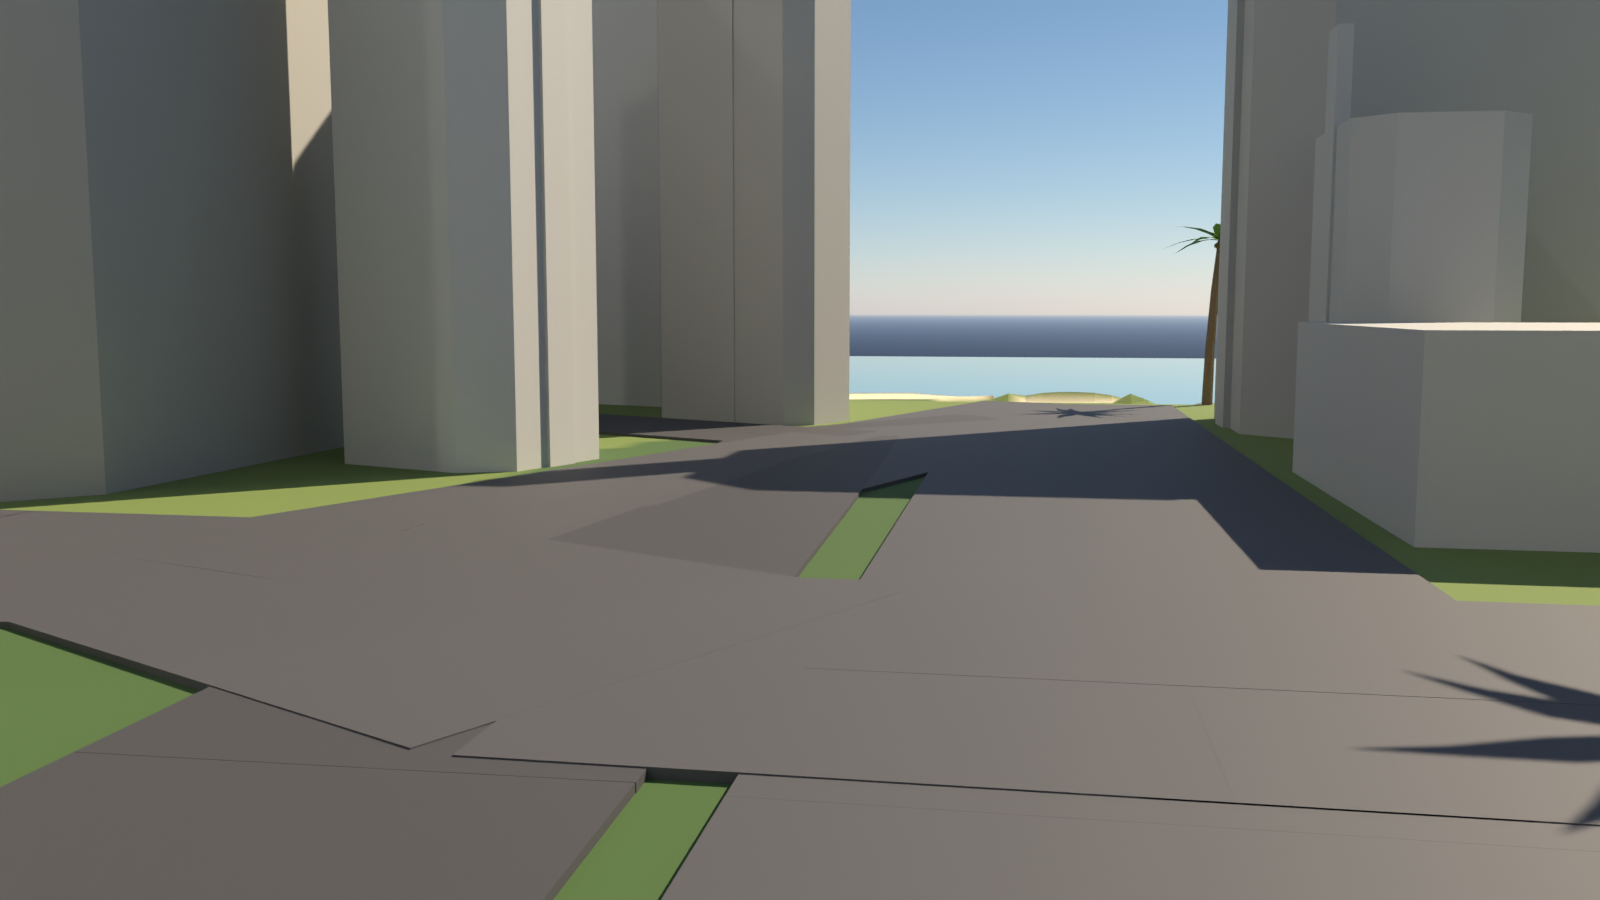
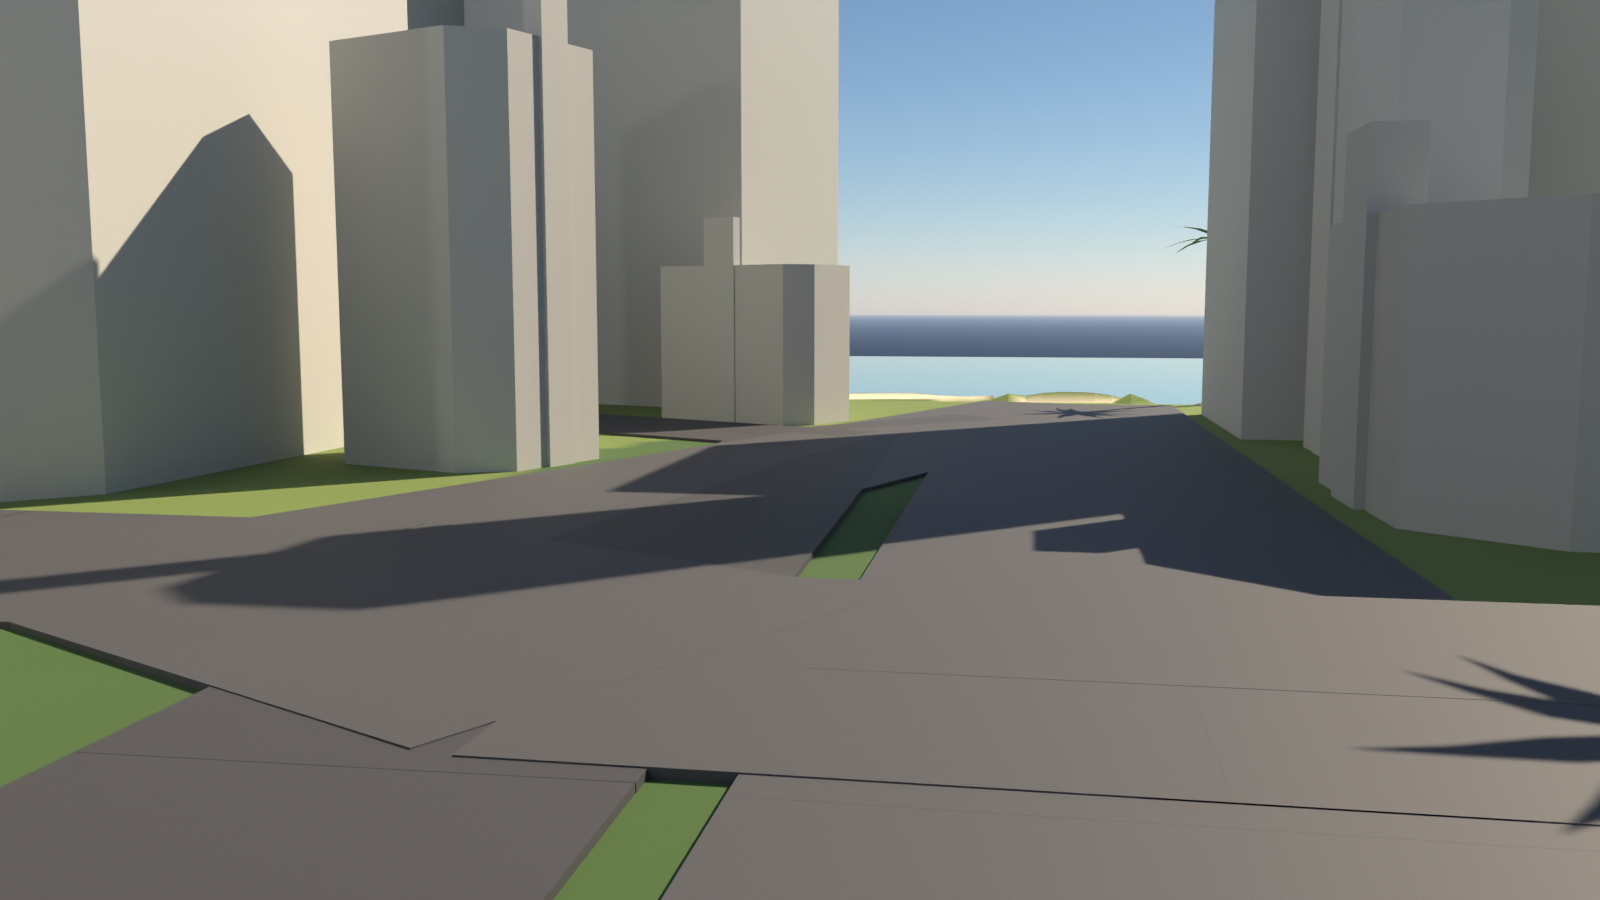
Lighting preset and day/night cycle, murky swamp water and beach foam, backyard canals, bigger downtown/docks/campus buildings
Claude-Session: https://claude.ai/code/session_01PWmpu53kThn7KFGp88wUgC

diff --git a/costa-verde/tools/blender/render_terrain.py b/costa-verde/tools/blender/render_terrain.py
@@ -22,6 +22,43 @@ def lin(c):  # sRGB 0-255 -> linear
     return tuple(((v / 255 + 0.055) / 1.055) ** 2.4 if v / 255 > 0.04045 else v / 255 / 12.92 for v in c)
 
 
+def greybox(pieces, name, alpha):
+    pv, pf, pcol = [], [], []
+    for pc in pieces:
+        p, r, u, b, sz = pc["p"], pc["r"], pc["u"], pc["b"], pc["s"]
+        def corner(i, j, k):
+            v = [p[n] + r[n] * sz[0] / 2 * i + u[n] * sz[1] / 2 * j + b[n] * sz[2] / 2 * k for n in range(3)]
+            return (v[0], -v[2], v[1])
+        n0 = len(pv)
+        if pc["shape"] == "box":
+            pv += [corner(i, j, k) for i in (-1, 1) for j in (-1, 1) for k in (-1, 1)]
+            faces = [(0, 1, 3, 2), (4, 6, 7, 5), (0, 4, 5, 1), (2, 3, 7, 6), (0, 2, 6, 4), (1, 5, 7, 3)]
+        else:  # wedge: bottom full, top edge at +Z
+            pv += [corner(-1, -1, -1), corner(1, -1, -1), corner(1, -1, 1), corner(-1, -1, 1), corner(-1, 1, 1), corner(1, 1, 1)]
+            faces = [(0, 1, 2, 3), (3, 2, 5, 4), (0, 3, 4), (1, 5, 2), (0, 4, 5, 1)]
+        for f in faces:
+            pf.append(tuple(n0 + q for q in f))
+            pcol.append(pc["c"])
+    gm = bpy.data.meshes.new(name)
+    gm.from_pydata(pv, [], pf)
+    ca = gm.color_attributes.new("col", "FLOAT_COLOR", "CORNER")
+    for poly, cc in zip(gm.polygons, pcol):
+        lc = lin(cc)
+        for li in poly.loop_indices:
+            ca.data[li].color = (*lc, 1)
+    go = bpy.data.objects.new(name, gm)
+    bpy.context.collection.objects.link(go)
+    m = bpy.data.materials.new(name)
+    m.use_nodes = True
+    a = m.node_tree.nodes.new("ShaderNodeAttribute")
+    a.attribute_name = "col"
+    m.node_tree.links.new(a.outputs["Color"], m.node_tree.nodes["Principled BSDF"].inputs["Base Color"])
+    m.node_tree.nodes["Principled BSDF"].inputs["Roughness"].default_value = 0.7
+    if alpha < 1:
+        m.node_tree.nodes["Principled BSDF"].inputs["Alpha"].default_value = alpha
+    gm.materials.append(m)
+
+
 def build(c):
     nx, nz, res, x0, z0 = c["nx"], c["nz"], c["res"], c["x0"], c["z0"]
     me = bpy.data.meshes.new("ground")
@@ -79,38 +116,8 @@ def build(c):
     rm.materials.append(m)
     # greybox pieces (WorldBuilder.luau): Roblox parts and wedges, Roblox space (x, y up, z) -> Blender (x, -z, y)
     if c.get("pieces"):
-        pv, pf, pcol = [], [], []
-        for pc in c["pieces"]:
-            p, r, u, b, sz = pc["p"], pc["r"], pc["u"], pc["b"], pc["s"]
-            def corner(i, j, k):
-                v = [p[n] + r[n] * sz[0] / 2 * i + u[n] * sz[1] / 2 * j + b[n] * sz[2] / 2 * k for n in range(3)]
-                return (v[0], -v[2], v[1])
-            n0 = len(pv)
-            if pc["shape"] == "box":
-                pv += [corner(i, j, k) for i in (-1, 1) for j in (-1, 1) for k in (-1, 1)]
-                faces = [(0, 1, 3, 2), (4, 6, 7, 5), (0, 4, 5, 1), (2, 3, 7, 6), (0, 2, 6, 4), (1, 5, 7, 3)]
-            else:  # wedge: bottom full, top edge at +Z
-                pv += [corner(-1, -1, -1), corner(1, -1, -1), corner(1, -1, 1), corner(-1, -1, 1), corner(-1, 1, 1), corner(1, 1, 1)]
-                faces = [(0, 1, 2, 3), (3, 2, 5, 4), (0, 3, 4), (1, 5, 2), (0, 4, 5, 1)]
-            for f in faces:
-                pf.append(tuple(n0 + q for q in f))
-                pcol.append(pc["c"])
-        gm = bpy.data.meshes.new("greybox")
-        gm.from_pydata(pv, [], pf)
-        ca = gm.color_attributes.new("col", "FLOAT_COLOR", "CORNER")
-        for poly, cc in zip(gm.polygons, pcol):
-            lc = lin(cc)
-            for li in poly.loop_indices:
-                ca.data[li].color = (*lc, 1)
-        go = bpy.data.objects.new("greybox", gm)
-        bpy.context.collection.objects.link(go)
-        m = bpy.data.materials.new("greybox")
-        m.use_nodes = True
-        a = m.node_tree.nodes.new("ShaderNodeAttribute")
-        a.attribute_name = "col"
-        m.node_tree.links.new(a.outputs["Color"], m.node_tree.nodes["Principled BSDF"].inputs["Base Color"])
-        m.node_tree.nodes["Principled BSDF"].inputs["Roughness"].default_value = 0.7
-        gm.materials.append(m)
+        greybox([p for p in c["pieces"] if not p.get("t")], "greybox", 1)
+        greybox([p for p in c["pieces"] if p.get("t")], "watertint", 0.5)
     # vegetation and shore props: instances of the exported models (hidden source collections)
     if c.get("items"):
         src = {}

diff --git a/costa-verde/tools/data/audit.md b/costa-verde/tools/data/audit.md
@@ -19,25 +19,25 @@ interchange ramps: 2208 segments
 - [PASS] no roads driving through water: 0.02 km of road over water without a bridge (exact terrain); by kind (studs) {'county': 40}
 
 ## Buildings
-- [PASS] buildings not on roads: 3 of 12528 buildings (0.02%) overlap a road
+- [PASS] buildings not on roads: 4 of 12369 buildings (0.03%) overlap a road
 - [PASS] every building has a real shape: 0 without parts, 0 part corners outside their lot
-- [PASS] building shapes clear of roads: 2 buildings (0.02%) with a part corner on a road
-building types: 25 kinds; top: {'shopfronts': 2984, 'ranch': 1383, 'l_ranch': 1226, 'courtyard': 1097, 'colonial': 1059, 'duplex': 724, 'art deco': 662, 'midrise': 542, 'townhouses': 534, 'Fast food': 468, 'tower': 391, 'split_level': 357}
+- [PASS] building shapes clear of roads: 3 buildings (0.02%) with a part corner on a road
+building types: 25 kinds; top: {'shopfronts': 2979, 'ranch': 1416, 'l_ranch': 1198, 'courtyard': 1098, 'colonial': 1009, 'duplex': 745, 'art deco': 635, 'townhouses': 536, 'midrise': 499, 'Fast food': 425, 'split_level': 406, 'tower': 363}
 
 ## Building footprints vs real (FEMA USA Structures)
 | style | n | area m² p10/p50/p90 gen (real) | long×short m p50 | plain boxes | end-on | setback m p50 | gap m p50 |
 |---|---|---|---|---|---|---|---|
-| campus | 387 | 67/365/2272 (92/698/3238) | 29×16 (41×20) | 0.54 (0.42) | 0.49 (0.45) | 11 (21) | 5.2 (7.5) |
-| deco | 762 | 64/220/863 (76/271/1253) | 19×12 (23×14) | 0.44 (0.40) | 0.49 (0.53) | 11 (18) | 3.3 (3.8) |
-| house | 6503 | 120/264/429 (156/288/426) | 19×15 (20×16) | 0.57 (0.51) | 0.49 (0.47) | 13 (16) | 3.2 (4.8) |
-| midrise | 607 | 63/191/1240 (74/240/2197) | 19×12 (22×12) | 0.56 (0.55) | 0.51 (0.58) | 12 (13) | 2.9 (4.9) |
-| shack | 490 | 55/152/482 (67/174/556) | 16×10 (17×11) | 0.64 (0.68) | 0.54 (0.56) | 13 (16) | 3.6 (6.0) |
-| stucco | 2989 | 63/185/644 (76/195/667) | 18×11 (19×11) | 0.65 (0.60) | 0.61 (0.73) | 13 (15) | 2.7 (3.7) |
-| tower | 447 | 66/342/2721 (86/822/5842) | 26×14 (42×24) | 0.44 (0.38) | 0.51 (0.53) | 12 (11) | 5.6 (9.5) |
-| warehouse | 58 | 81/534/3391 (92/1452/7033) | 36×19 (56×27) | 0.31 (0.34) | 0.50 (0.40) | 13 (33) | 8.3 (7.8) |
+| campus | 347 | 68/450/2854 (92/698/3238) | 32×18 (41×20) | 0.49 (0.42) | 0.51 (0.45) | 11 (21) | 4.7 (7.5) |
+| deco | 733 | 62/223/1193 (76/271/1253) | 20×13 (23×14) | 0.39 (0.40) | 0.49 (0.53) | 11 (18) | 3.1 (3.8) |
+| house | 6526 | 121/263/429 (156/288/426) | 19×15 (20×16) | 0.58 (0.51) | 0.49 (0.47) | 13 (16) | 3.1 (4.8) |
+| midrise | 564 | 58/198/1728 (74/240/2197) | 19×12 (22×12) | 0.59 (0.55) | 0.48 (0.58) | 11 (13) | 2.7 (4.9) |
+| shack | 486 | 55/153/450 (67/174/556) | 16×10 (17×11) | 0.65 (0.68) | 0.55 (0.56) | 13 (16) | 3.6 (6.0) |
+| stucco | 2965 | 63/185/660 (76/195/667) | 18×11 (19×11) | 0.65 (0.60) | 0.61 (0.73) | 13 (15) | 2.6 (3.7) |
+| tower | 404 | 66/394/3606 (86/822/5842) | 26×15 (42×24) | 0.43 (0.38) | 0.51 (0.53) | 11 (11) | 5.7 (9.5) |
+| warehouse | 59 | 68/1098/4310 (92/1452/7033) | 39×23 (56×27) | 0.31 (0.34) | 0.56 (0.40) | 11 (33) | 6.1 (7.8) |
 - [FAIL] footprints match real buildings: size, spread, shape, orientation, setback and gap within range of the real data; off: ['campus', 'tower', 'warehouse']
 - [PASS] buildings not overlapping: 0 overlapping pairs
-buildings by district: {'northshore': 2972, 'palmgrove': 2286, 'gulftown': 2110, 'westside': 1245, 'beach': 762, 'calle': 729, 'midtown': 607, 'downtown': 447, 'university': 387, 'swamptown': 270, 'rural': 264, 'truckstop': 220, 'keytown': 150, 'docks': 58, 'hamlet': 21}
+buildings by district: {'northshore': 2976, 'palmgrove': 2299, 'gulftown': 2081, 'westside': 1251, 'beach': 733, 'calle': 727, 'midtown': 564, 'downtown': 404, 'university': 347, 'swamptown': 266, 'rural': 264, 'truckstop': 220, 'keytown': 157, 'docks': 59, 'hamlet': 21}
 
 ## Street patterns vs real data (2.4 km windows at district centres)
   downtown   (tower    ) density_ 11.21/12.48  block_me 200.02/260.85  straight 0.94/0.98  dead_end 0.08/0.16  t_frac 0.50/0.44  cross_fr 0.42/0.40  orientat 1.00/0.83
@@ -53,7 +53,7 @@ buildings by district: {'northshore': 2972, 'palmgrove': 2286, 'gulftown': 2110,
 ## Building uses
 - [PASS] building uses match the real mix: top uses within 2x of real Florida shares
 - [PASS] every building has a use: 0 without a use
-map markers: {'food': 10, 'fire': 3, 'convenience': 12, 'gas': 15, 'clothing': 10, 'gun_store': 8, 'car_dealer': 4, 'mod_shop': 5, 'jewelry': 2, 'bar': 6, 'liquor': 5, 'arcade': 5, 'bank': 4, 'barber': 6, 'police': 6, 'tattoo': 5, 'pawn': 3, 'gym': 3, 'boat_dealer': 3}
+map markers: {'car_dealer': 4, 'clothing': 10, 'pawn': 3, 'gas': 15, 'convenience': 12, 'barber': 6, 'bank': 4, 'gym': 3, 'tattoo': 5, 'food': 10, 'bar': 6, 'police': 6, 'arcade': 3, 'fire': 3, 'gun_store': 8, 'liquor': 5, 'mod_shop': 5, 'jewelry': 2, 'boat_dealer': 3}
 
 ## Landmarks
 - [PASS] all 200 landmarks placed: 200 of 200 placed

diff --git a/costa-verde/ROADMAP.md b/costa-verde/ROADMAP.md
@@ -55,7 +55,11 @@ statistics. No real place is copied.
   ReplicatedStorage.Assets (keep the file names); then in the command bar, in edit mode:
   `require(game.ReplicatedStorage.Shared.TerrainBuilder).build()`,
   `require(game.ReplicatedStorage.Shared.Vegetation).build()` and
-  `require(game.ReplicatedStorage.Shared.WorldBuilder).build()`; save the place.
+  `require(game.ReplicatedStorage.Shared.WorldBuilder).build()` and
+  `require(game.ReplicatedStorage.Shared.LightingPreset).apply()`; save the place. The day/night cycle runs
+  from ServerScriptService.Server.DayNight.
+- Water variety: murky tint on swamp and lake water, foam on beach surf (Roblox has one global water style).
+- Backyard canals in about a third of suburban neighbourhoods; big buildings slide up to a block to fit.
 - Greybox ready: `src/shared/WorldBuilder.luau` builds roads (bridges, freeway viaducts with pillars, ramps),
   rail and the elevated metro, every building at its real footprint and height with pitched house roofs, and
   landmark site plans; buildings are atomic streaming models; streaming is switched on.
